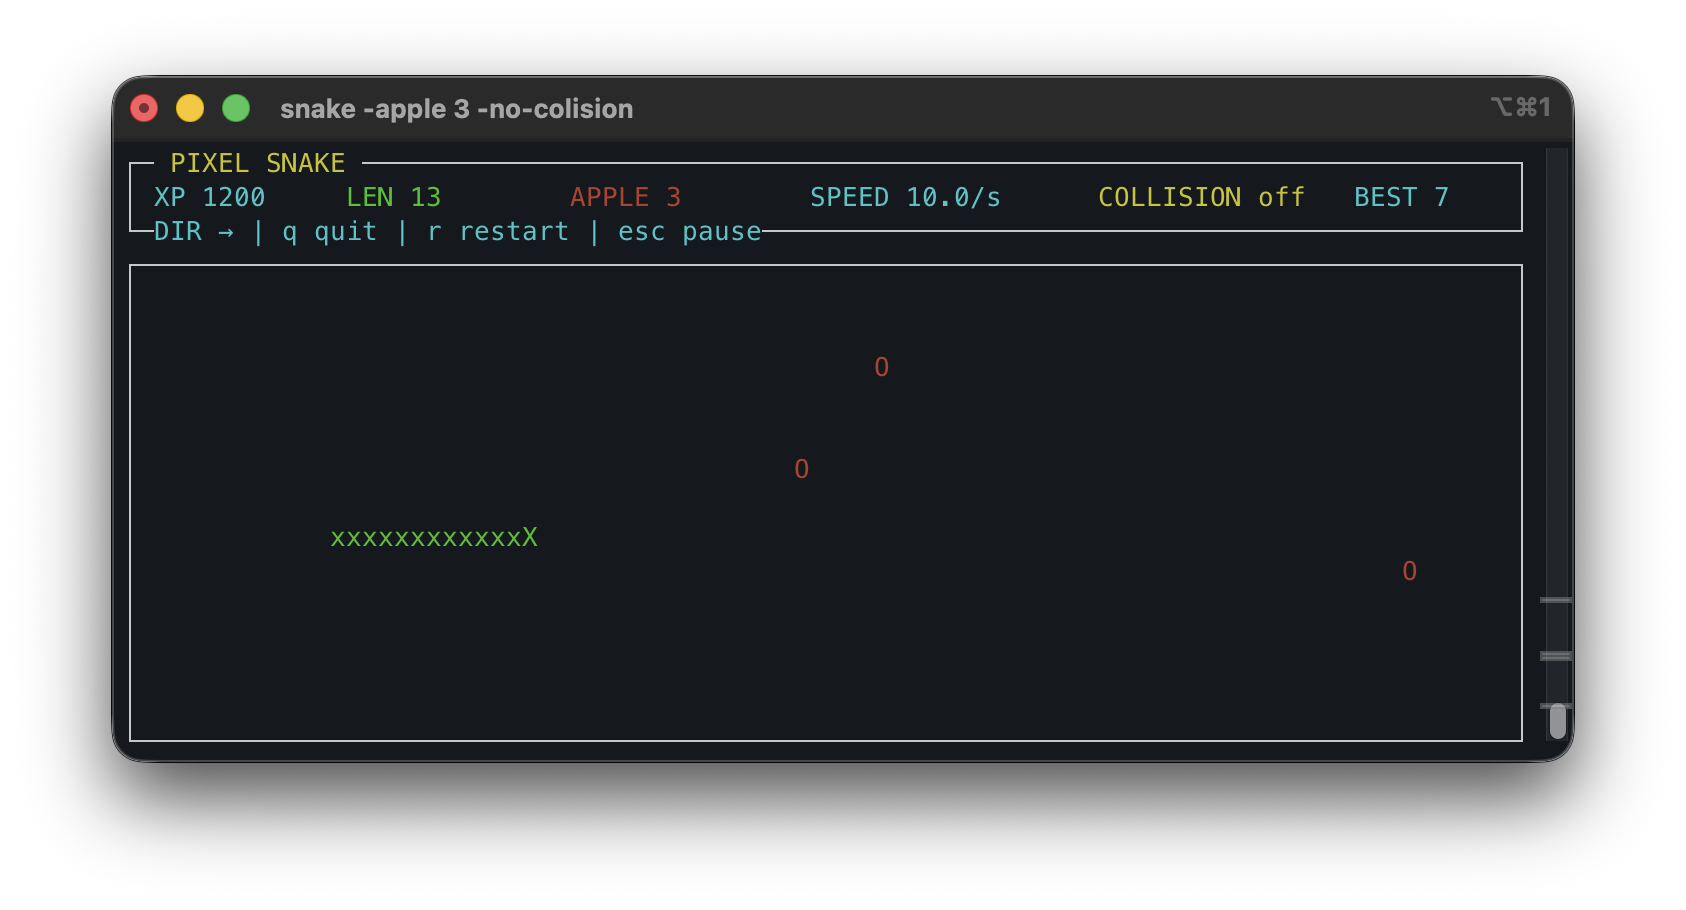
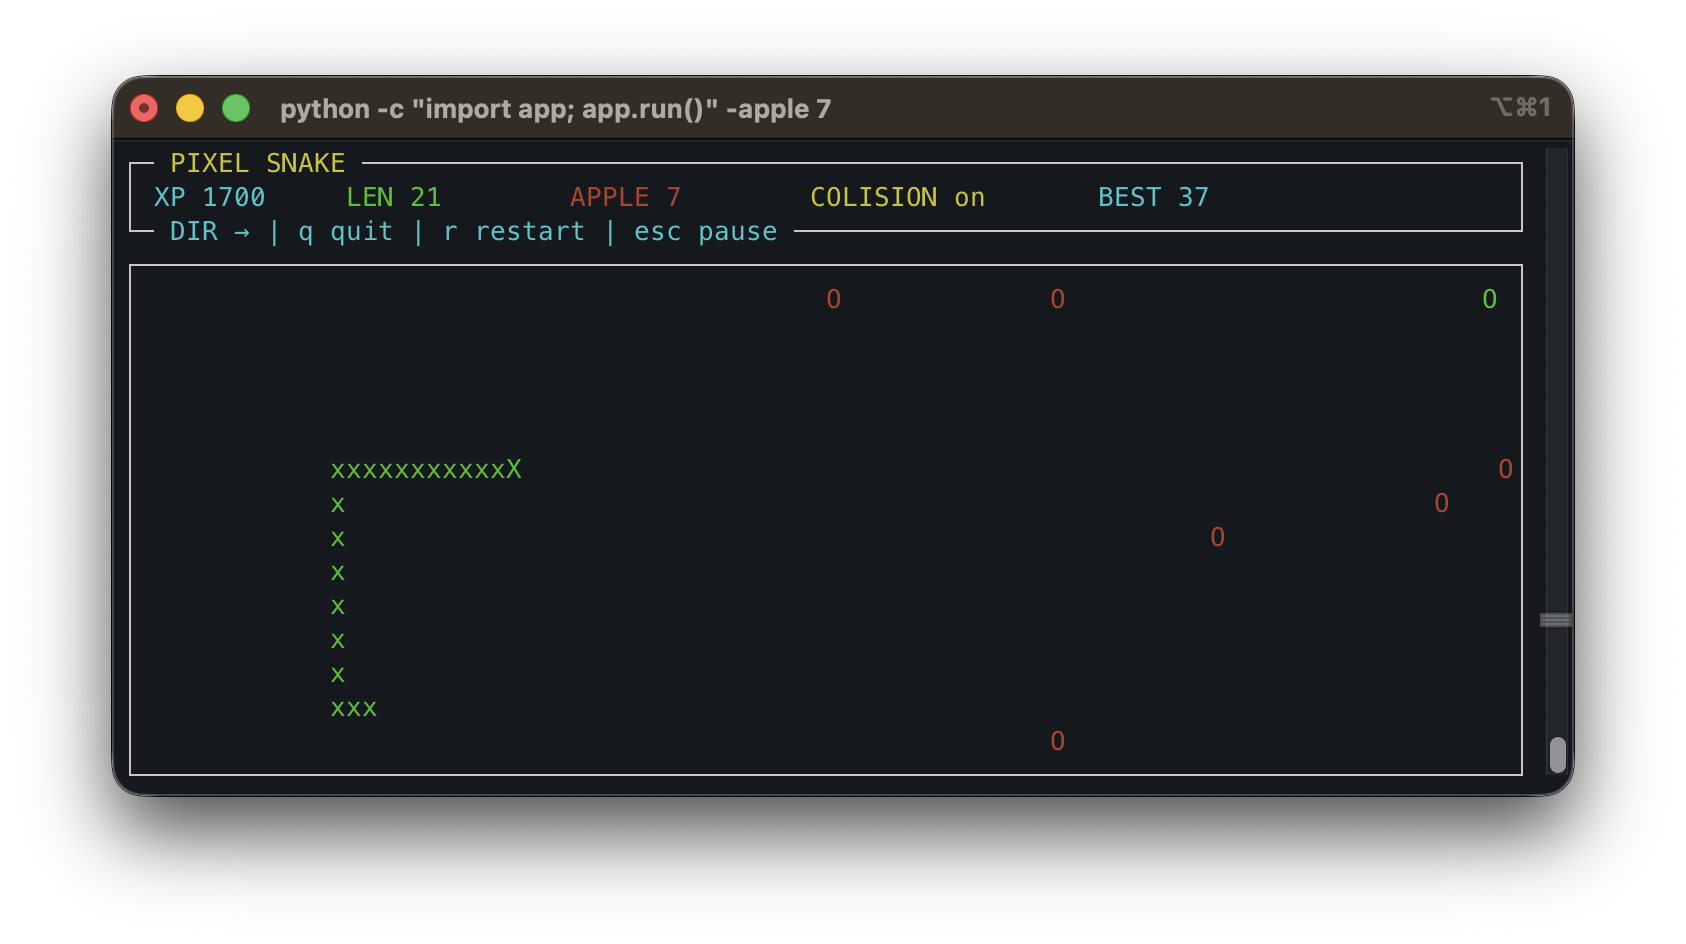
Fix glitch apple, changed README, add blue color to snake when glitch

diff --git a/app.py b/app.py
@@ -66,16 +66,28 @@ def main(stdscr, args):
 
     
 
-def update_direction(key, current, glitch=False): # HJKL => VIM keybind
+def update_direction(key, current, glitched=False):
+    if glitched:
+        if key in (curses.KEY_UP, ord('k'), ord('K')):
+            key = curses.KEY_DOWN
+        elif key in (curses.KEY_DOWN, ord('j'), ord('J')):
+            key = curses.KEY_UP
+        elif key in (curses.KEY_LEFT, ord('h'), ord('H')):
+            key = curses.KEY_RIGHT
+        elif key in (curses.KEY_RIGHT, ord('l'), ord('L')):
+            key = curses.KEY_LEFT
+
     dy, dx = current
+
     if key in (curses.KEY_UP, ord('k'), ord('K')) and dy != 1:
-        return (1, 0) if glitch else (-1, 0)
+        return (-1, 0)
     if key in (curses.KEY_DOWN, ord('j'), ord('J')) and dy != -1:
-        return (-1, 0) if glitch else (1, 0)
+        return (1, 0)
     if key in (curses.KEY_LEFT, ord('h'), ord('H')) and dx != 1:
-        return (0, 1) if glitch else (0, -1)
+        return (0, -1)
     if key in (curses.KEY_RIGHT, ord('l'), ord('L')) and dx != -1:
-        return (0, -1) if glitch else (0,1)
+        return (0, 1)
+
     return current
 
 
@@ -88,13 +100,13 @@ def safe_addstr(win, y, x, text, color=0):
     win.addstr(y, x, text[:max(0, width - x - 1)], color)
 
 
-def render(win, snake, apple, side, xp, direction, collision, tick, score):
+def render(win, snake, apple, side, xp, direction, collision, tick, score, glitched=False):
     win.erase()
     win.box()
 
     for i, (y, x) in enumerate(snake):
         char = "X" if i == 0 else "x"
-        win.addch(y, x, char, curses.color_pair(SNAKE_COLOR))
+        win.addch(y, x, char, curses.color_pair(APPLE_COLOR["glitch"] if glitched else SNAKE_COLOR))
     
     for ap in apple:
         # input(ap.type) # lsite ["normal"]
@@ -239,7 +251,7 @@ def game_loop(stdscr, nbAplle, collision):
                             SNAKE.snake_body.pop()
                     elif apple.type == "glitch" :
                         xp += 100
-                        glitch_until = time.time() + 5
+                        glitch_until = time.time() + 1 # 1s glitch
 
                     apple.type = apple.init_type() # Change type
                     apple.spawn_apple(SNAKE.snake_body, game_size)
@@ -248,7 +260,7 @@ def game_loop(stdscr, nbAplle, collision):
             SNAKE.snake_body.pop()
 
 
-            render(win, SNAKE.snake_body, APPLE, side_bar, xp, SNAKE.direction, collision, TICK, bestScore)
+            render(win, SNAKE.snake_body, APPLE, side_bar, xp, SNAKE.direction, collision, TICK, bestScore, glitched=glitched)
 
         return game_over(stdscr, len(SNAKE.snake_body), bestScore)
 

diff --git a/apple.py b/apple.py
@@ -14,7 +14,7 @@ class Apple:
 
         typ = choices(
             population=AppleType,
-            weights=(60, 20, 10, 10),
+            weights=(65, 20, 5, 10),
             k=1
         )        
         return typ[0] # cause it's a array["string"]

diff --git a/README.md b/README.md
@@ -1,38 +1,59 @@
-# Snake TUI
+# 🐍 Snake TUI
 
-Snake mais dans le terminal.
+> Snake mais dans le terminal.
 
-![](./gameplay.png)
+<p align="center">
+  <img src="./gameplay.png" width="700">
+</p>
 
-## Installation
+---
 
-- Sur Macos :
+## 📦 Installation
+
+### Sur MacOS
+
 ```bash
-git clone https://OrAxelerator/pixel-snake-tui.git
+git clone https://github.com/OrAxelerator/pixel-snake-tui.git
 cd pixel-snake-tui
 pip install -e .
 ```
 
-- Sur Linux pip peut installez mais je conseille pipx
-> Installaton pipx sur linux :
->  sudo apt install pipx
->  pipx ensurepath
->  pipx install .
+### Sur Linux
 
-- Sur Windows : 
+`pip` peut installer le jeu, mais `pipx` est recommandé.
+
+Installation de `pipx` :
+
 ```bash
-git clone https://OrAxelerator/pixel-snake-tui.git
+sudo apt install pipx
+pipx ensurepath
+```
+
+Puis :
+
+```bash
+git clone https://github.com/OrAxelerator/pixel-snake-tui.git
+cd pixel-snake-tui
+pipx install .
+```
+
+### Sur Windows
+
+```bash
+git clone https://github.com/OrAxelerator/pixel-snake-tui.git
 cd pixel-snake-tui
 python -m pip install .
 ```
 
-## Lancement
+---
+
+##  Lancement
 
 ```bash
 snake
 ```
 
-Options :
+### Options
 
 ```bash
 snake -apple 4
@@ -40,20 +61,40 @@ snake -no-colision
 snake -apple 4 -no-colision
 ```
 
-Touches :
+---
 
-- Fleches ou `h` `j` `k` `l` : deplacer le serpent
+##  Touches
+
+- Fleches ou `h` `j` `k` `l` : déplacer le serpent
 - `esc` : pause
 - `r` : relancer
 - `q` : quitter
 
-Devrait marcher sur tous les OS, sauf peut-etre Windows.
+> Devrait marcher sur tous les OS, sauf peut-être Windows.
 
 ---
 
-Issu de cette video : https://www.youtube.com/watch?v=lziU_yT0iDc
+##  Pommes
 
+Il existe différents types de pommes :
+
+| Type | Effet |
+|------|--------|
+| 🔴 Rouge | pomme normale `+1` |
+| 🟡 Jaune | pomme dorée `+2` |
+| 🟢 Verte | pomme d'uranium `-1` |
+| 🔵 Bleue | pomme glitchée, inverse les contrôles pendant `1s` |
 
 ---
+
+##  Inspiration
+
+Issu de cette vidéo :  
+https://www.youtube.com/watch?v=lziU_yT0iDc
+
+---
+
+##  Licence
 
 [LICENSE MIT](./LICENSE.md)
+EOF